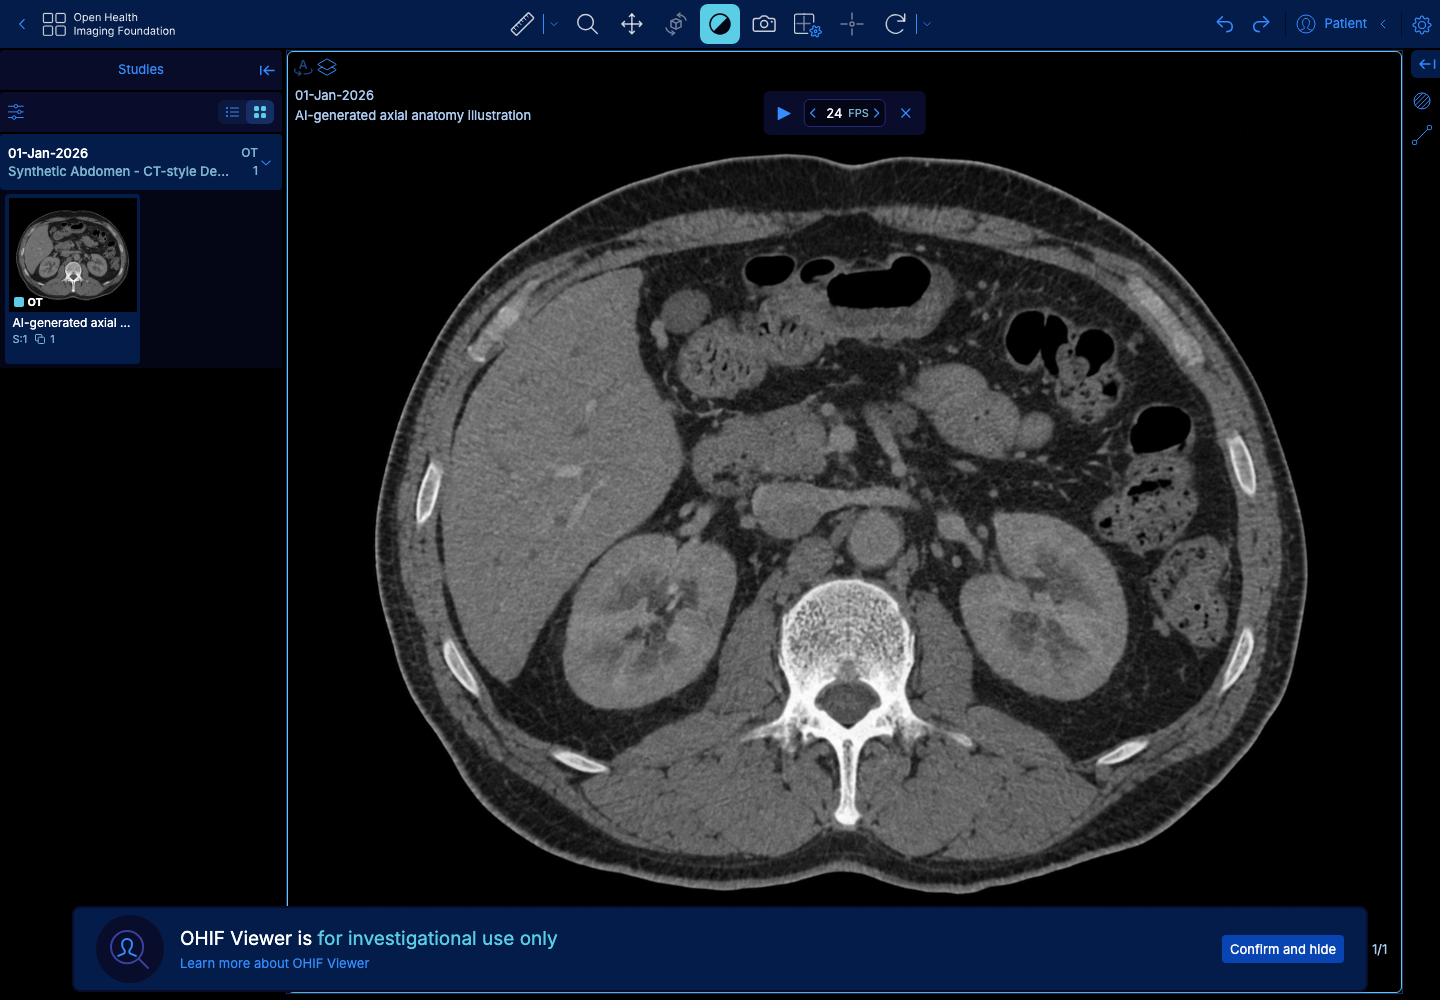
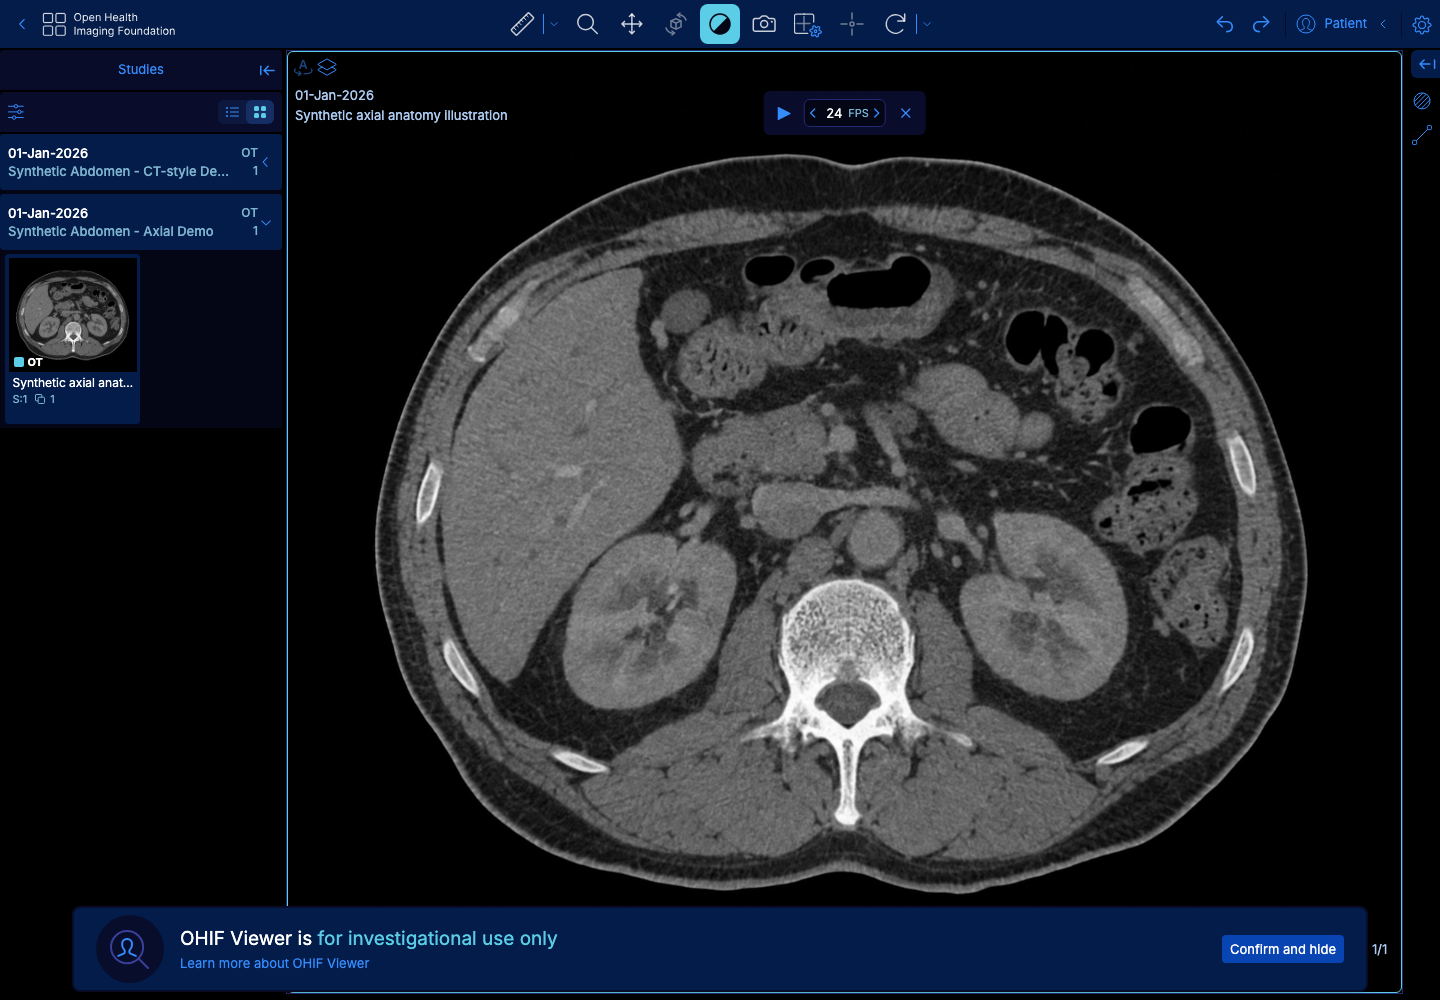
Describe brochure and demo imagery as synthetic illustrations

Changed region(s): [[0.0, 0.186, 0.2188, 0.434], [0.2188, 0.093, 0.375, 0.124]]

diff --git a/scripts/generate_anatomy_demo.py b/scripts/generate_anatomy_demo.py
@@ -14,7 +14,7 @@ OUTPUT = ROOT / "samples" / "apex-anatomy-demo.dcm"
 def main():
     digest = sha256(SOURCE.read_bytes()).hexdigest()
     study_uid, series_uid, instance_uid = (
-        generate_uid(entropy_srcs=["APEX-ANATOMY-v1", digest, kind])
+        generate_uid(entropy_srcs=["APEX-ANATOMY-v2", digest, kind])
         for kind in ("study", "series", "instance")
     )
     meta = FileMetaDataset()
@@ -33,8 +33,8 @@ def main():
     image.StudyTime = "120000"
     image.StudyID = "ANATOMY001"
     image.AccessionNumber = image.ReferringPhysicianName = ""
-    image.StudyDescription = "Synthetic Abdomen - CT-style Demo"
-    image.SeriesDescription = "AI-generated axial anatomy illustration"
+    image.StudyDescription = "Synthetic Abdomen - Axial Demo"
+    image.SeriesDescription = "Synthetic axial anatomy illustration"
     image.ImageType = ["DERIVED", "SECONDARY"]
     image.Modality = "OT"
     image.ConversionType = "SYN"

diff --git a/README.md b/README.md
@@ -49,8 +49,8 @@ CT-style axial abdomen example from the project folder:
     samples/.rebuild-venv/bin/python scripts/generate_anatomy_demo.py
     curl -fsS --data-binary @samples/apex-anatomy-demo.dcm http://127.0.0.1:8043/instances
 
-Refresh the worklist and open **Synthetic Abdomen - CT-style Demo**
-(`APEX-ANATOMY-001`). The source is an AI-generated anatomy illustration
+Refresh the worklist and open **Synthetic Abdomen - Axial Demo**
+(`APEX-ANATOMY-001`). The source is a synthetic anatomy illustration
 wrapped as a single DICOM Secondary Capture, with no patient data or
 calibrated Hounsfield units. The geometric fixtures below support the
 repeatable pipeline and scrolling checks.
